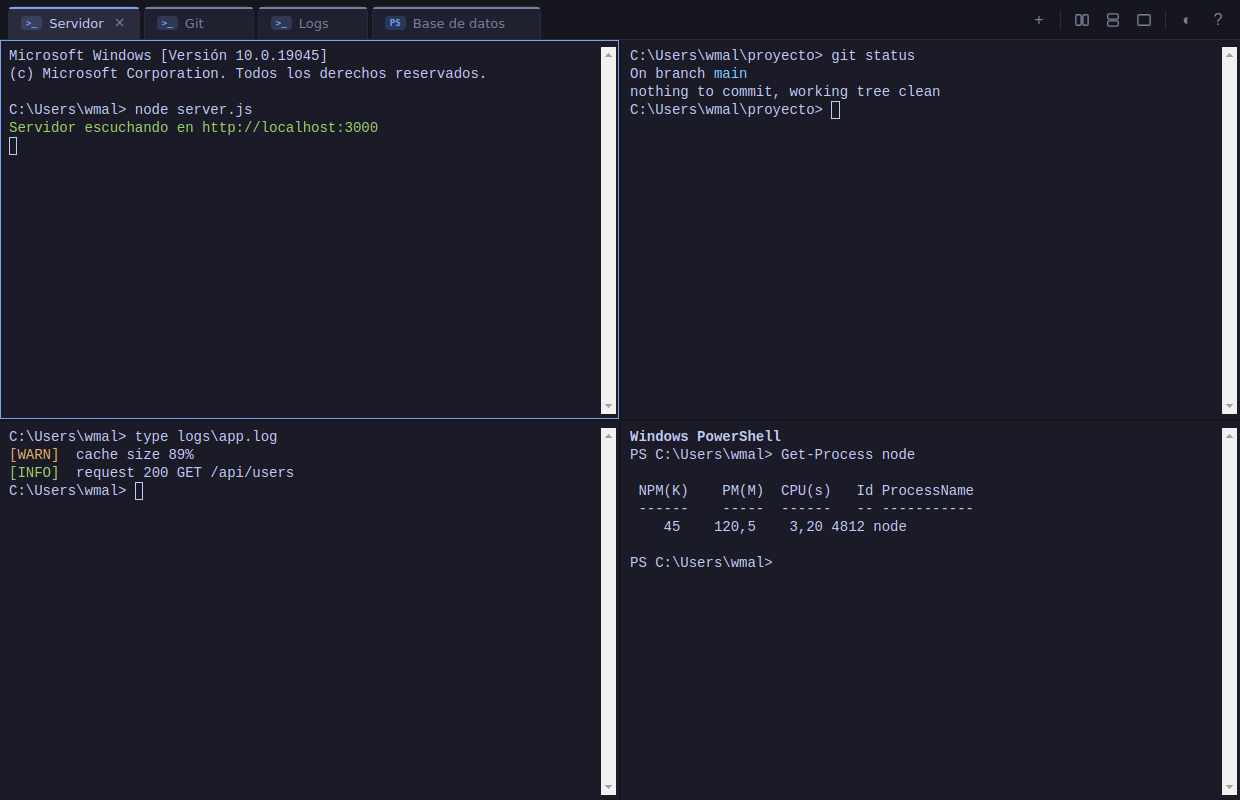
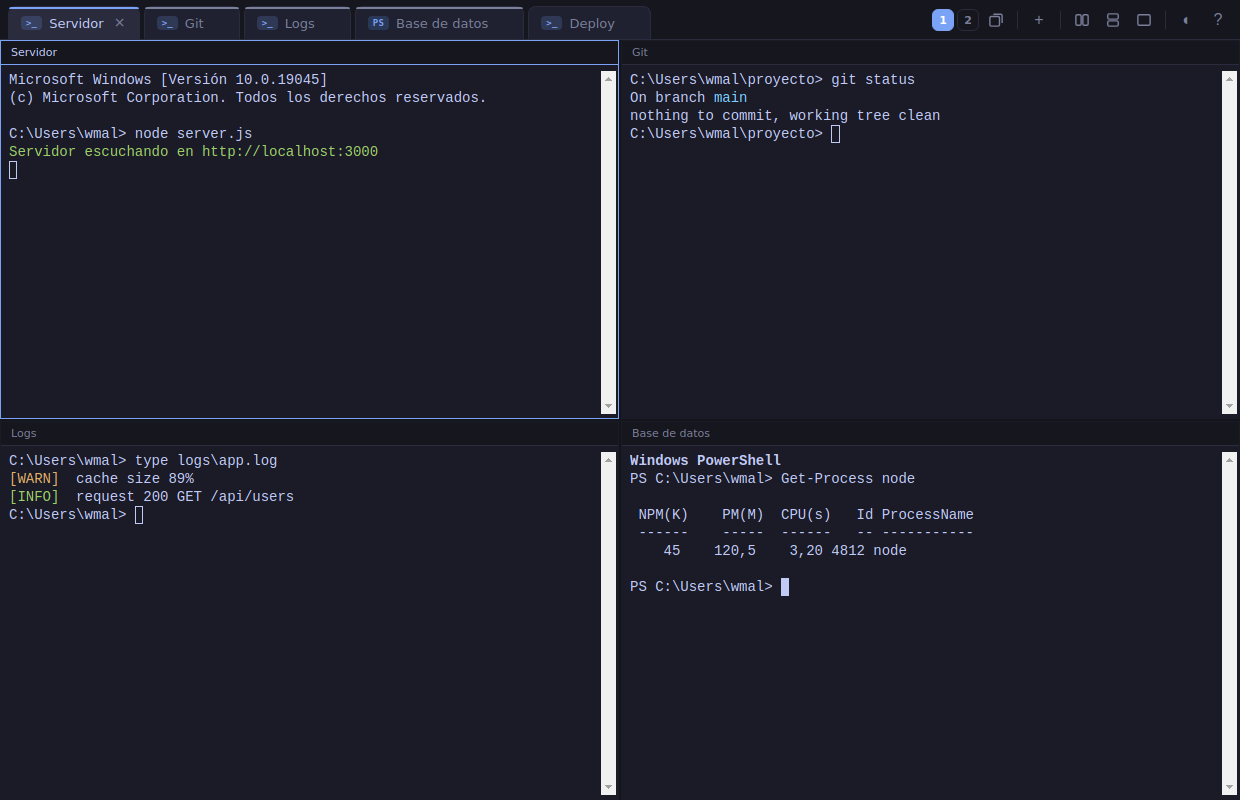
docs(readme): :books: pane titles and groups

diff --git a/README.md b/README.md
@@ -28,7 +28,8 @@ Pensada para máquinas donde no puedes instalar nada: **ni Windows Terminal, ni 
 - ✅ Terminales reales de **CMD** y **PowerShell** en pestañas
 - ✅ **Renombra** cada pestaña con doble click o `F2` ("Servidor", "Git", "Logs"...)
 - ✅ **Reordena** las pestañas arrastrándolas
-- ✅ **Splits**: divide la ventana en hasta **8 paneles** en cuadrícula para ver varias terminales a la vez
+- ✅ **Splits**: divide la ventana en hasta **8 paneles** en cuadrícula, cada uno con su título visible
+- ✅ **Grupos de paneles**: abre una terminal a pantalla completa aparte y vuelve a tu grupo anterior con un click o `Ctrl+Alt+←/→`
 - ✅ **Tema oscuro** (por defecto) y tema claro
 - ✅ **Persistencia**: recuerda títulos, orden de pestañas, shell de cada una y tema al reabrir
 - ✅ **Aviso de actualización**: la app te avisa cuando hay una versión nueva para descargar
@@ -67,12 +68,18 @@ La configuración se guarda automáticamente en `%APPDATA%\TerminalHub\terminalh
 | `Ctrl` + `Shift` + `E` | Agregar panel (hasta 8, prioridad en columnas) |
 | `Ctrl` + `Shift` + `O` | Agregar panel (hasta 8, prioridad en filas) |
 | `Ctrl` + `Shift` + `W` | Cerrar el panel enfocado (la terminal sigue abierta en su pestaña) |
+| `Ctrl` + `Shift` + `G` | Nuevo grupo de paneles (una terminal a pantalla completa, aparte) |
+| `Ctrl` + `Alt` + `←` / `→` o `Ctrl` + `Alt` + `1`…`9` | Cambiar entre grupos |
 | `Ctrl` + `Shift` + `C` / `V` | Copiar / pegar |
 | `Ctrl` + `C` (con texto seleccionado) | Copiar la selección (sin selección, envía `Ctrl+C` al shell) |
 | Click derecho en la terminal | Copia la selección, o pega si no hay selección |
 | Click central en una pestaña | Cerrar esa pestaña |
 
 Con la pantalla dividida: la pestaña activa se marca con una línea azul y las visibles en otros paneles con una línea gris. Haz click en un panel para enfocarlo y click en cualquier pestaña para cargarla en el panel enfocado. Al agregar un panel se muestra una de tus pestañas ya abiertas que no estaba a la vista; solo si todas están visibles se abre una terminal nueva. La cuadrícula se reacomoda sola (2, 3, 4… hasta 8 paneles). También puedes hacer **click derecho sobre una pestaña** para abrirla en un panel nuevo, renombrarla o cerrarla.
+
+Cuando hay más de un panel, cada uno muestra una **barra fina con su título** arriba (fuera del área de la consola); doble click en ella renombra la terminal.
+
+**Grupos de paneles**: si tienes un grupo de terminales armado y necesitas una a pantalla completa, crea un grupo nuevo con `Ctrl+Shift+G` (o el botón de ventanas superpuestas). Cada grupo recuerda su propia disposición de paneles, y cambias entre ellos con los números que aparecen en la barra superior, `Ctrl+Alt+←/→` o `Ctrl+Alt+1…9`. Click medio sobre el número cierra el grupo (sus terminales siguen abiertas como pestañas).
 
 Si tienes más pestañas de las que entran en la barra, deslízate con la **rueda del mouse** sobre ella (también hay una barra de scroll fina debajo). La pestaña activa siempre se mantiene a la vista. El botón `+` abre el menú para elegir shell, `◐` cambia el tema y `?` muestra la ayuda.
 
